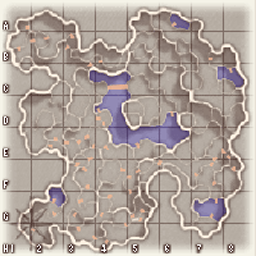
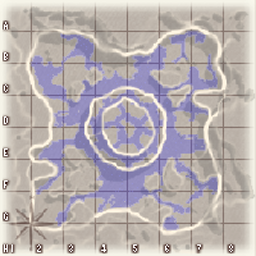
20201216 マップ変更を反映

diff --git a/docs/index.html b/docs/index.html
@@ -29,7 +29,7 @@
             </div>
         </div>
         <div id="PanelRight" style="position:absolute; left:514px; top:2px; width: 284px; height: 600px;">
-            <div id="TextTitle" style="position:absolute; width: 280px; height:50px ; font-size: 18px; font-weight:bold; background-color: white;">TSObeliskSimulator<br /> ver.20201021</div>
+            <div id="TextTitle" style="position:absolute; width: 280px; height:50px ; font-size: 18px; font-weight:bold; background-color: white;">TSObeliskSimulator<br /> ver.20210102</div>
             <div id="PanelRadioButton" style="position:absolute; top:52px; width: 284px; height: 70px;">
                 <div id="ButtonBuild1" class="tso-button" value="1" style="left:  0px; top:  0px;   width:34px; height:34px; background-image: url(image/button/atk_castle.png);"> </div>
                 <div id="ButtonBuild2" class="tso-button" value="2" style="left: 35px; top:  0px;   width:34px; height:34px; background-image: url(image/button/atk_obelisk.png);"> </div>
